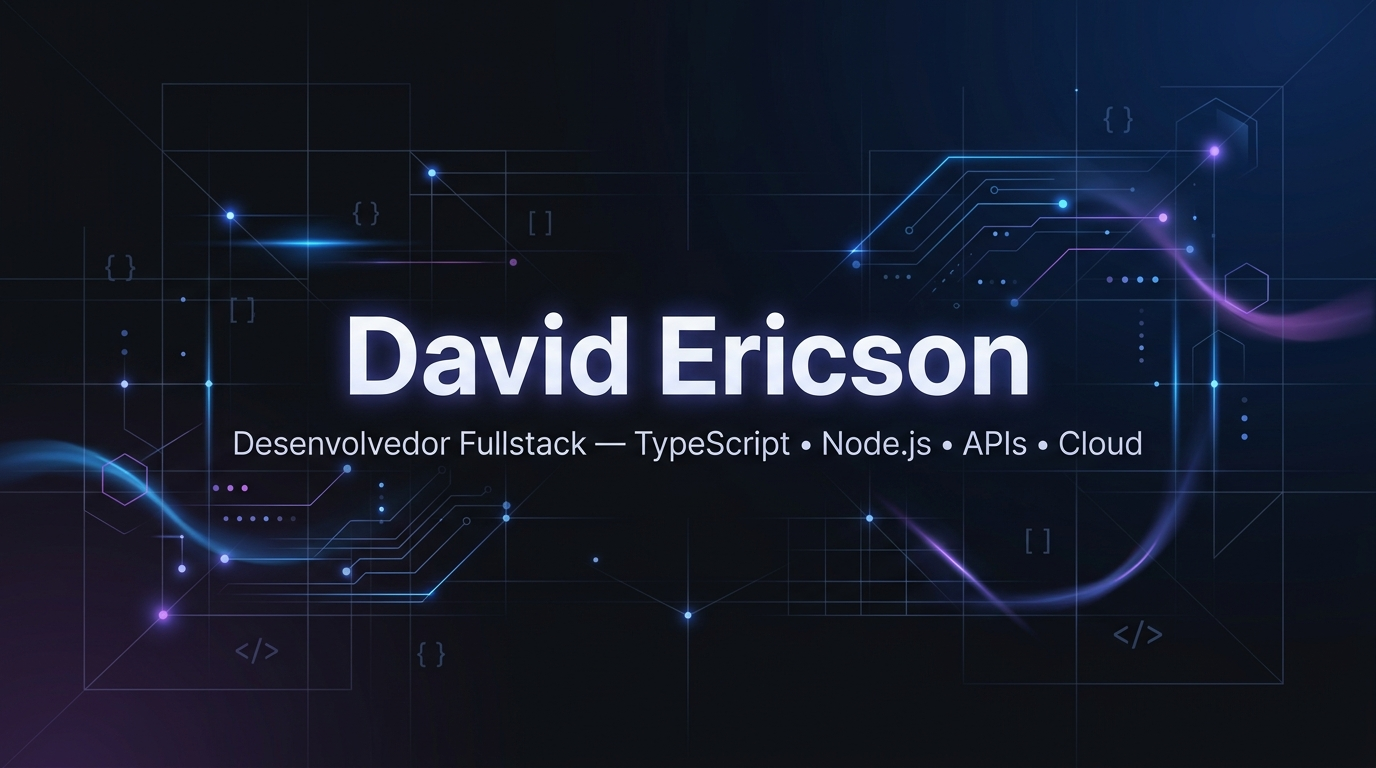
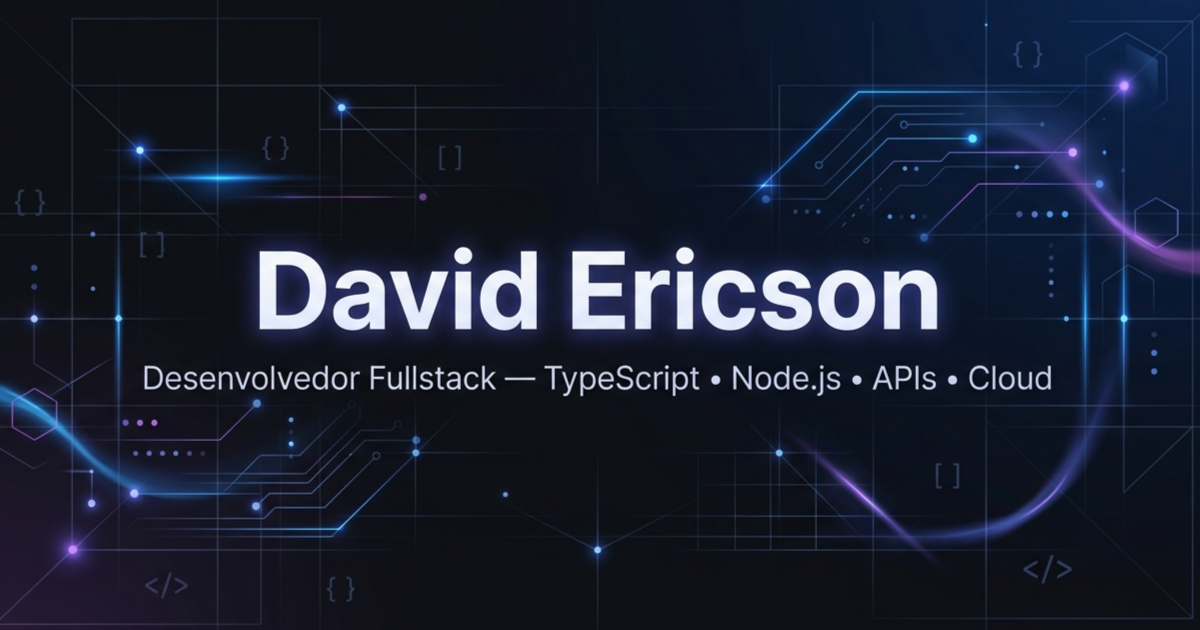
fix: address Lighthouse audit issues
- optimize image delivery and LCP with next/image and responsive sizing
- fix accessibility issues with ARIA attributes and interactive elements
- improve decorative icon accessibility and redundant alt text
- improve secondary text contrast in the footer
- enable font display swap for Geist fonts
- add security headers including CSP, COOP, HSTS and Permissions Policy
- fix insufficient contrast on the primary button
- resize and optimize the Open Graph image to recommended dimensions

diff --git a/next.config.ts b/next.config.ts
@@ -1,5 +1,22 @@
 import type { NextConfig } from "next";
 
+const isDevelopment = process.env.NODE_ENV === "development";
+
+const cspHeader = `
+  default-src 'self';
+  script-src 'self' 'unsafe-inline' ${isDevelopment ? "'unsafe-eval'" : ""} https://va.vercel-scripts.com;
+  style-src 'self' 'unsafe-inline';
+  img-src 'self' blob: data: https://i.imgur.com https://imgur.com https://img.itch.zone https://github.com https://user-images.githubusercontent.com https://skillicons.dev https://go-skill-icons.vercel.app;
+  font-src 'self' data:;
+  connect-src 'self' https://vitals.vercel-insights.com https://va.vercel-scripts.com https://skillicons.dev https://go-skill-icons.vercel.app;
+  frame-ancestors 'none';
+  object-src 'none';
+  base-uri 'self';
+  form-action 'self';
+`
+  .replace(/\s{2,}/g, " ")
+  .trim();
+
 const nextConfig: NextConfig = {
   images: {
     remotePatterns: [
@@ -11,6 +28,43 @@ const nextConfig: NextConfig = {
       { protocol: "https", hostname: "skillicons.dev" },
       { protocol: "https", hostname: "go-skill-icons.vercel.app" },
     ],
+  },
+  async headers() {
+    return [
+      {
+        source: "/(.*)",
+        headers: [
+          {
+            key: "Content-Security-Policy",
+            value: cspHeader,
+          },
+          {
+            key: "X-Frame-Options",
+            value: "DENY",
+          },
+          {
+            key: "X-Content-Type-Options",
+            value: "nosniff",
+          },
+          {
+            key: "Referrer-Policy",
+            value: "strict-origin-when-cross-origin",
+          },
+          {
+            key: "Permissions-Policy",
+            value: "camera=(), microphone=(), geolocation=()",
+          },
+          {
+            key: "Strict-Transport-Security",
+            value: "max-age=63072000; includeSubDomains; preload",
+          },
+          {
+            key: "Cross-Origin-Opener-Policy",
+            value: "same-origin",
+          },
+        ],
+      },
+    ];
   },
 };
 

diff --git a/components/projects/ProjectCard.tsx b/components/projects/ProjectCard.tsx
@@ -2,6 +2,7 @@
 
 import { useRouter } from "next/navigation";
 import { useRef } from "react";
+import Image from "next/image";
 import { motion } from "motion/react";
 import { ExternalLink, ArrowUpRight, Layers } from "lucide-react";
 import type { Project } from "@/types/project";
@@ -44,25 +45,16 @@ export function ProjectCard({ project }: ProjectCardProps) {
       className="project-card"
       onClick={handleCardClick}
       transition={{ duration: 0.25, ease: [0.16, 1, 0.3, 1] }}
-      role="button"
-      tabIndex={0}
-      onKeyDown={(e) => {
-        if (e.key === "Enter" || e.key === " ") {
-          e.preventDefault();
-          handleCardClick();
-        }
-      }}
-      aria-label={`Ver detalhes do projeto ${project.name}`}
     >
       {/* Visual Cover / Fallback */}
       <div className="project-card-cover-container">
         {project.coverImage ? (
-          // eslint-disable-next-line @next/next/no-img-element
-          <img
+          <Image
             src={project.coverImage}
             alt={`Screenshot do projeto ${project.name}`}
             className="project-card-cover"
-            loading="lazy"
+            fill
+            sizes="(max-width: 640px) 100vw, (max-width: 1024px) 50vw, 360px"
           />
         ) : (
           <div className="project-card-fallback-cover">
@@ -116,7 +108,7 @@ export function ProjectCard({ project }: ProjectCardProps) {
         <header className="project-card-header">
           <h3 className="project-card-title">
             <span>{project.name}</span>
-            <ArrowUpRight className="project-card-arrow" size={18} />
+            <ArrowUpRight className="project-card-arrow" size={18} aria-hidden="true" />
           </h3>
 
           <p className="project-card-summary">{project.summary}</p>

diff --git a/components/skills/SkillItem.tsx b/components/skills/SkillItem.tsx
@@ -9,9 +9,15 @@ export type SkillItemProps = {
   technology: Technology;
   onClick?: (technology: Technology) => void;
   getHasDragged?: () => boolean;
+  isClone?: boolean;
 };
 
-export function SkillItem({ technology, onClick, getHasDragged }: SkillItemProps) {
+export function SkillItem({
+  technology,
+  onClick,
+  getHasDragged,
+  isClone = false,
+}: SkillItemProps) {
   const [imageError, setImageError] = useState(false);
   const router = useRouter();
   const config = technologyCategoryConfig[technology.category];
@@ -39,6 +45,8 @@ export function SkillItem({ technology, onClick, getHasDragged }: SkillItemProps
       onClick={handleClick}
       title={`Ver projetos com ${technology.name}`}
       aria-label={technology.name}
+      tabIndex={isClone ? -1 : undefined}
+      aria-hidden={isClone ? "true" : undefined}
       style={
         {
           "--tech-accent": config?.accentColor ?? "var(--primary)",
@@ -54,7 +62,8 @@ export function SkillItem({ technology, onClick, getHasDragged }: SkillItemProps
           /* eslint-disable-next-line @next/next/no-img-element */
           <img
             src={technology.iconUrl}
-            alt={technology.name}
+            alt=""
+            aria-hidden="true"
             className="skill-item-icon"
             loading="lazy"
             width={32}

diff --git a/components/projects-page/ProjectGridCard.tsx b/components/projects-page/ProjectGridCard.tsx
@@ -3,6 +3,7 @@
 
 
 import { useRouter } from "next/navigation";
+import Image from "next/image";
 import { ExternalLink, ArrowUpRight, Layers } from "lucide-react";
 import type { Project } from "@/types/project";
 import { technologyCategoryConfig } from "@/types/technology";
@@ -45,25 +46,16 @@ export function ProjectGridCard({
     <article
       className="project-grid-card"
       onClick={handleCardClick}
-      role="button"
-      tabIndex={0}
-      onKeyDown={(e) => {
-        if (e.key === "Enter" || e.key === " ") {
-          e.preventDefault();
-          handleCardClick();
-        }
-      }}
-      aria-label={`Ver detalhes do projeto ${project.name}`}
     >
       {/* Cover / Image Area */}
       <div className="project-grid-card-cover-wrap">
         {project.coverImage ? (
-          // eslint-disable-next-line @next/next/no-img-element
-          <img
+          <Image
             src={project.coverImage}
             alt={`Screenshot do projeto ${project.name}`}
             className="project-grid-card-cover"
-            loading="lazy"
+            fill
+            sizes="(max-width: 640px) 100vw, (max-width: 1024px) 50vw, 360px"
           />
         ) : (
           <div className="project-grid-card-fallback">

diff --git a/components/projects/ProjectScreenshots.tsx b/components/projects/ProjectScreenshots.tsx
@@ -1,4 +1,5 @@
 import React from "react";
+import Image from "next/image";
 
 export type ProjectScreenshotsProps = {
   images: string[];
@@ -28,12 +29,13 @@ export function ProjectScreenshots({
             </span>
           </div>
 
-          {/* eslint-disable-next-line @next/next/no-img-element */}
-          <img
+          <Image
             src={src}
             alt={`${projectName} - Captura de tela ${index + 1}`}
             className="project-screenshot-img"
-            loading="lazy"
+            width={1365}
+            height={768}
+            sizes="(max-width: 768px) 100vw, 860px"
           />
         </div>
       ))}

diff --git a/components/hero/HeroSection.tsx b/components/hero/HeroSection.tsx
@@ -116,10 +116,10 @@ export function HeroSection() {
               ref={imageRef}
               src={isHoveringImage ? pixelDavidHover : pixelDavid}
               alt="Pixel art de David Ericson com os braços cruzados"
-              width={1024}
-              height={1024}
+              width={768}
+              height={768}
               priority
-              unoptimized
+              sizes="(max-width: 640px) 290px, (max-width: 1024px) 480px, 768px"
               className="hero-image"
             />
           </div>

diff --git a/components/experience/ExperienceItem.tsx b/components/experience/ExperienceItem.tsx
@@ -62,7 +62,7 @@ export function ExperienceItem({
             <span className="experience-item-company">{experience.company}</span>
             {experience.location && (
               <span className="experience-item-location">
-                <span className="experience-sep">•</span>
+                <span className="experience-sep" aria-hidden="true">•</span>
                 {experience.location}
               </span>
             )}

diff --git a/components/education/EducationCard.tsx b/components/education/EducationCard.tsx
@@ -44,9 +44,9 @@ export function EducationCard({
       onClick={onToggle}
       onKeyDown={handleKeyDown}
       tabIndex={0}
-      role="button"
       aria-expanded={isExpanded}
       aria-controls={`education-details-${education.id}`}
+      aria-label={`${education.title} - ${education.institution}`}
       initial={{ opacity: 0, y: 18 }}
       whileInView={{ opacity: 1, y: 0 }}
       viewport={{ once: true, amount: 0.2 }}

diff --git a/components/experience/TechnologyPill.tsx b/components/experience/TechnologyPill.tsx
@@ -48,7 +48,8 @@ export function TechnologyPill({ technology, onClick }: TechnologyPillProps) {
         /* eslint-disable-next-line @next/next/no-img-element */
         <img
           src={technology.iconUrl}
-          alt={technology.name}
+          alt=""
+          aria-hidden="true"
           className="tech-pill-icon"
           loading="lazy"
           width={14}

diff --git a/app/layout.tsx b/app/layout.tsx
@@ -13,11 +13,13 @@ import { SpeedInsights } from "@vercel/speed-insights/next";
 const geistSans = Geist({
   variable: "--font-geist-sans",
   subsets: ["latin"],
+  display: "swap",
 });
 
 const geistMono = Geist_Mono({
   variable: "--font-geist-mono",
   subsets: ["latin"],
+  display: "swap",
 });
 
 export const viewport: Viewport = {

diff --git a/components/skills/SkillCategoryRow.tsx b/components/skills/SkillCategoryRow.tsx
@@ -196,6 +196,7 @@ export function SkillCategoryRow({
                   technology={tech}
                   onClick={onSelectTechnology}
                   getHasDragged={getHasDragged}
+                  isClone={setNum !== 1}
                 />
               ))}
             </div>

diff --git a/app/not-found.tsx b/app/not-found.tsx
@@ -1,6 +1,6 @@
 import type { Metadata } from "next";
 import Link from "next/link";
-import { ArrowLeft, Home, Compass } from "lucide-react";
+import { Home, Compass } from "lucide-react";
 
 export const metadata: Metadata = {
   title: "Página não encontrada",
